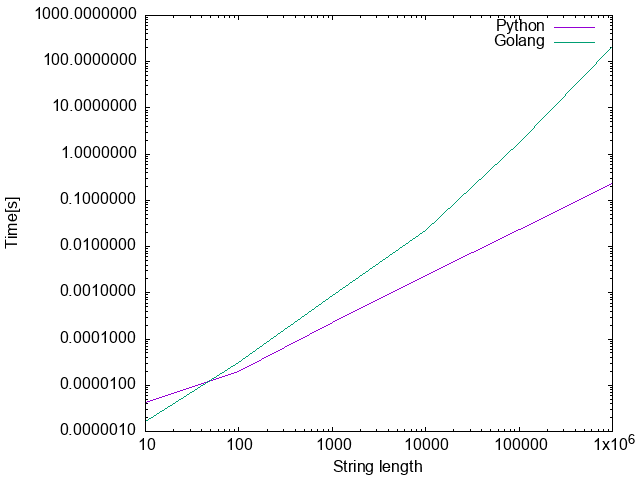
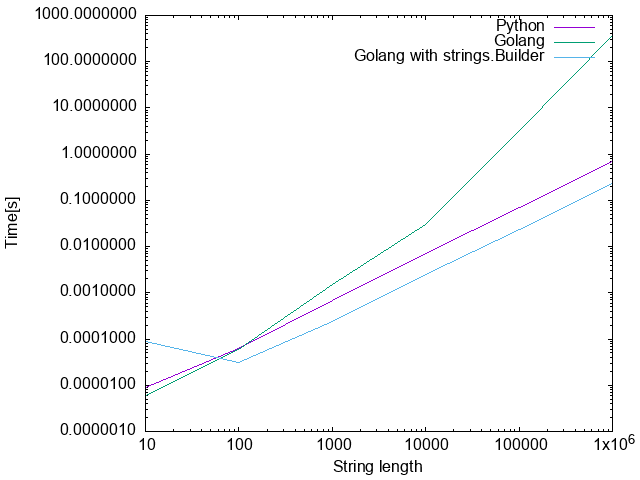
strings.Builder for go

diff --git a/smarter.go b/smarter.go
@@ -3,20 +3,24 @@ package main
 import (
 	"fmt"
 	"time"
+	"strings"
 )
 
 func generateString(n int) string {
-	res := ""
-	b := ""
+	var bbuf strings.Builder
+	bbuf.Grow(n*2)
 	for i := 0; i < n; i++ {
-		b += "12"
+		fmt.Fprintf(&bbuf, "12")
 	}
+	b:=bbuf.String()
+	var resbuf strings.Builder
+	resbuf.Grow(n)
 	for _, c := range b {
 		if c == '1' {
-			res += string(c)
+			fmt.Fprintf(&resbuf, string(c))
 		}
 	}
-	return res
+	return resbuf.String()
 }
 
 func main() {

diff --git a/main.py b/main.py
@@ -8,7 +8,7 @@ def generateString(n: int) -> str:
     b = ""
     for i in range(n):
         b += "12"
-    for c in res:
+    for c in b:
         if c == "1":
             res += c
     return res
